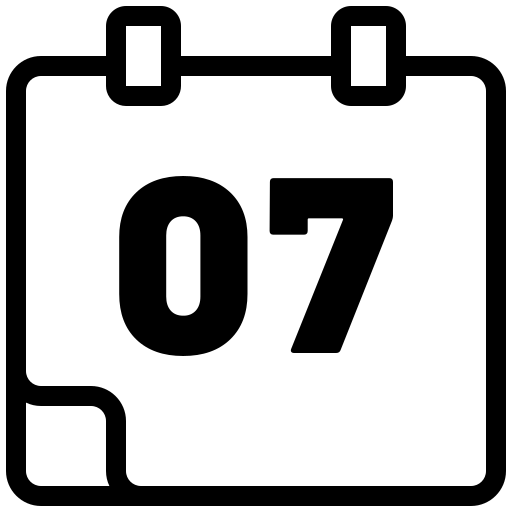
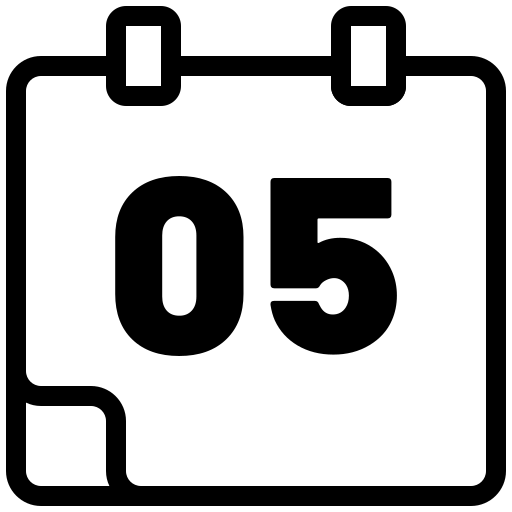
Added dynamic loading and showing of greater details for the hourly weather

diff --git a/src/HourlyWeather.js b/src/HourlyWeather.js
@@ -75,6 +75,7 @@ class HourlyWeather extends Component {
         }
 
         this.loadDataToState = this.loadDataToState.bind(this)
+        this.toggleDetails = this.toggleDetails.bind(this)
 
     }
 
@@ -91,10 +92,11 @@ class HourlyWeather extends Component {
         this.setState({hour_1: {loaded: true}})
         for (let i = 1; i <= 9; i += 2) {
             let card_id = "hour_" + i
-            this.setState(prevState => ({
+            this.setState(() => ({
                 [card_id]: {
                     hour_mod: i,
                     loaded: true,
+                    show_details: false,
                     time: this.props.APIData['hourly'][i]['dt'],
                     temp: this.props.APIData['hourly'][i]['temp'],
                     feels_like: this.props.APIData['hourly'][i]['feels_like'],
@@ -109,20 +111,56 @@ class HourlyWeather extends Component {
         }
     }
 
+    toggleDetails(hour_mod){
+        if(hour_mod === 1){
+            this.setState(prevState => ({
+                hour_1 : {
+                    ...prevState.hour_1,
+                    show_details : !prevState.hour_1.show_details
+                }
+            }));
+        } else if (hour_mod === 3) {
+            this.setState(prevState => ({
+                hour_3 : {
+                    ...prevState.hour_3,
+                    show_details : !prevState.hour_3.show_details
+                }
+            }));
+        } else if (hour_mod === 5) {
+            this.setState(prevState => ({
+                hour_5 : {
+                    ...prevState.hour_5,
+                    show_details : !prevState.hour_5.show_details
+                }
+            }));
+        } else if (hour_mod === 7) {
+            this.setState(prevState => ({
+                hour_7 : {
+                    ...prevState.hour_7,
+                    show_details : !prevState.hour_7.show_details
+                }
+            }));
+        } else if (hour_mod === 9) {
+            this.setState(prevState => ({
+                hour_9 : {
+                    ...prevState.hour_9,
+                    show_details : !prevState.hour_9.show_details
+                }
+            }));
+        }
+    }
+
 
     //TODO ADD DROPDOWN FUNCTION FOR MORE DETAILS
     //TODO Add dropdown with more information
     render() {
-        let layouts = (<div>
-            <p>Loading Data...</p>
-        </div>)
 
-        if (this.state.hour_1['loaded']) {
-            layouts = Object.entries(this.state).map((hourly_data) =>
-                <span key={hourly_data[0]} className="hourly-layout">
+        let layouts = (this.state.hour_1['loaded']) ? (
+            Object.entries(this.state).map((hourly_data) =>
+                <span key={hourly_data[0]} className={`hourly-layout ${hourly_data[1]['show_details'] ? "taller" : "shorter"}`}>
                     <span className="card-top">
                         <p className='time'>{convertDt(hourly_data[1]['time'])}</p>
-                        <button className='drop-button' onClick={this.toggleDetails}> V </button>
+                        <button className='drop-button' onClick={() => this.toggleDetails(hourly_data[1]['hour_mod'])}> V </button>
                     </span>
                         <span className='weather-conditions'>
                         <img src={convertImage(hourly_data[1]['image_code'])}
@@ -134,9 +172,18 @@ class HourlyWeather extends Component {
                         <p>Feels like:</p>
                         <p>{hourly_data[1]['feels_like'] + ' \xB0F'}</p>
                     </span>
+                    <div className={`additional_info ${hourly_data[1]['show_details'] ? "" : "hidden"}`}>
+                        <p>{"Precipitation: " + hourly_data[1]['precipitation'] + "%"}</p>
+                        <p>{"Humidity: " + hourly_data[1]['humidity'] + "%"}</p>
+                        <p>{"Wind: " + hourly_data[1]['wind'] + "MPH"}</p>
+                        <p>{"UV Index: " + hourly_data[1]['uv_index']}</p>
+                    </div>
                 </span>
-            )
-        }
+            )) : (
+                <div>
+                    Loading...
+                </div>
+        )
 
         return (
             <div className="weather-container weekly-layout">

diff --git a/src/App.scss b/src/App.scss
@@ -67,7 +67,6 @@
 
   width: 85vw;
   height: 75vh;
-  border: 1px solid blue;
 
   .current-time{
     font-size: 3rem;
@@ -98,7 +97,6 @@
 }
 
 .weather-container{
-  border: 1px solid green;
   position: fixed;
   left: 12vw;
   top: 40vh;
@@ -107,12 +105,18 @@
 }
 
 .weekly-layout{
-  border: 1px solid black;
   display: flex;
   flex-direction: row;
 
-  .hourly-layout{
+  .taller{
+    height: 45vh;
+  }
+
+  .shorter{
     height: 35vh;
+  }
+
+  .hourly-layout{
     width: 20%;
     margin: .75vw;
     display: flex;
@@ -121,6 +125,7 @@
     background: var(--background);
     border: 2px solid dimgrey;
     box-shadow: 1px 1px 1px 1px black;
+    transition: .75s ease;
 
     .card-top {
       display: flex;
@@ -146,11 +151,11 @@
         width: 22px;
         height: 22px;
         border: none;
-        transition: .5s ease;
+        transition: .75s ease;
       }
 
       .drop-button:hover{
-        transition: .5s ease;
+        transition: .75s ease;
         rotate: 180deg;
       }
     }
@@ -161,13 +166,13 @@
       }
 
       :last-child{
-        font-size: .75rem;
         margin: 0;
       }
     }
 
     .temp{
       color: #394738;
+      font-size: 1.25rem;
     }
 
     .feels-like{
@@ -183,9 +188,26 @@
         position: relative;
         left: 25%;
       }
-
       p{
         margin: 0;
+      }
+    }
+
+    .hidden{
+      visibility: hidden;
+      opacity: 0;
+    }
+
+    .additional_info{
+      border: 1px solid black;
+      position: relative;
+      margin: 2rem;
+      right: 20%;
+      transition-delay: .25s;
+      transition: .25s ease-in;
+
+      p{
+        margin: .5rem;
       }
     }
   }

diff --git a/src/App.js b/src/App.js
@@ -1,6 +1,6 @@
 import day from './images/day_image.png'
-import five_day from './images/five_day_image.png'
-import seven_day from './images/seven_day_image.png'
+import five_day from './images/seven_day_image.png'
+import seven_day from './images/five_day_image.png'
 import './App.scss';
 import AppComponent from "./AppComponent";
 
